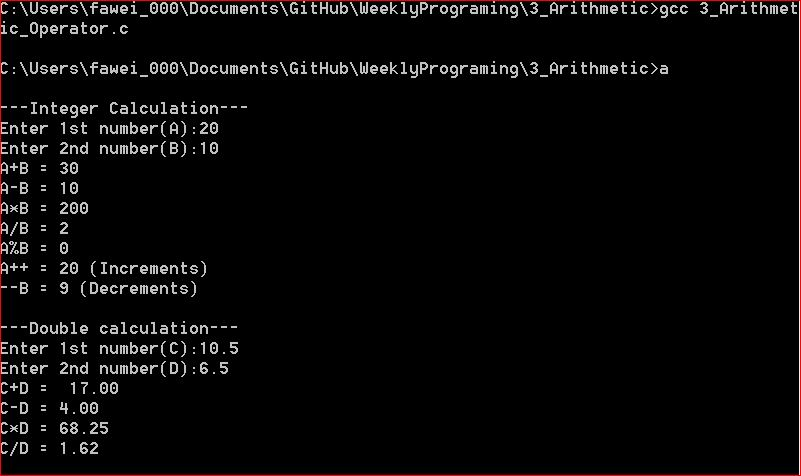
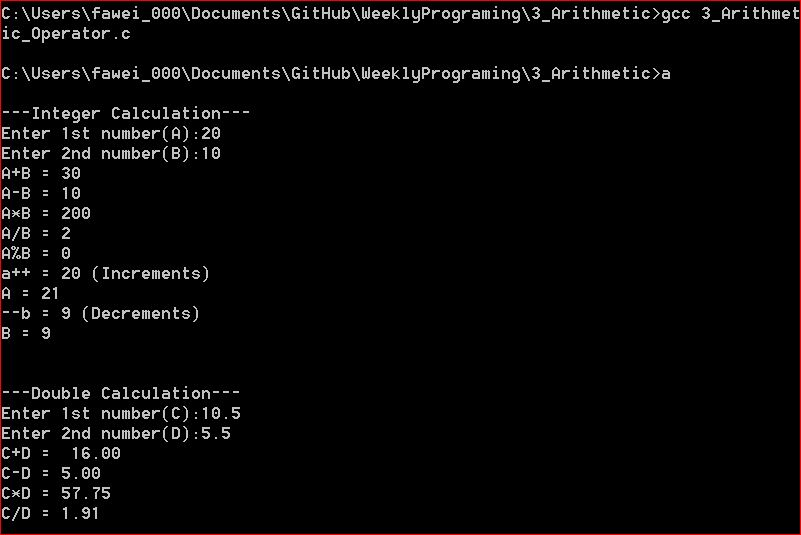
2014/11/17

diff --git a/3_Arithmetic/3_Arithmetic_Operator.c b/3_Arithmetic/3_Arithmetic_Operator.c
@@ -18,8 +18,10 @@ int main(){
 	printf("A*B = %d\n",v);
 	printf("A/B = %d\n",e);
 	printf("A%%B = %d\n",r); //use %% to print % sign!
-	printf("A++ = %d (Increments)\n",a++);
-	printf("--B = %d (Decrements)\n",--b);
+	printf("a++ = %d (Increments)\n",a++);
+	printf("A = %d\n",a);
+	printf("--b = %d (Decrements)\n",--b);
+	printf("B = %d\n\n",b);
 	
 	float c,d,w,x,y,z;
 	printf("\n---Double Calculation---\n");
